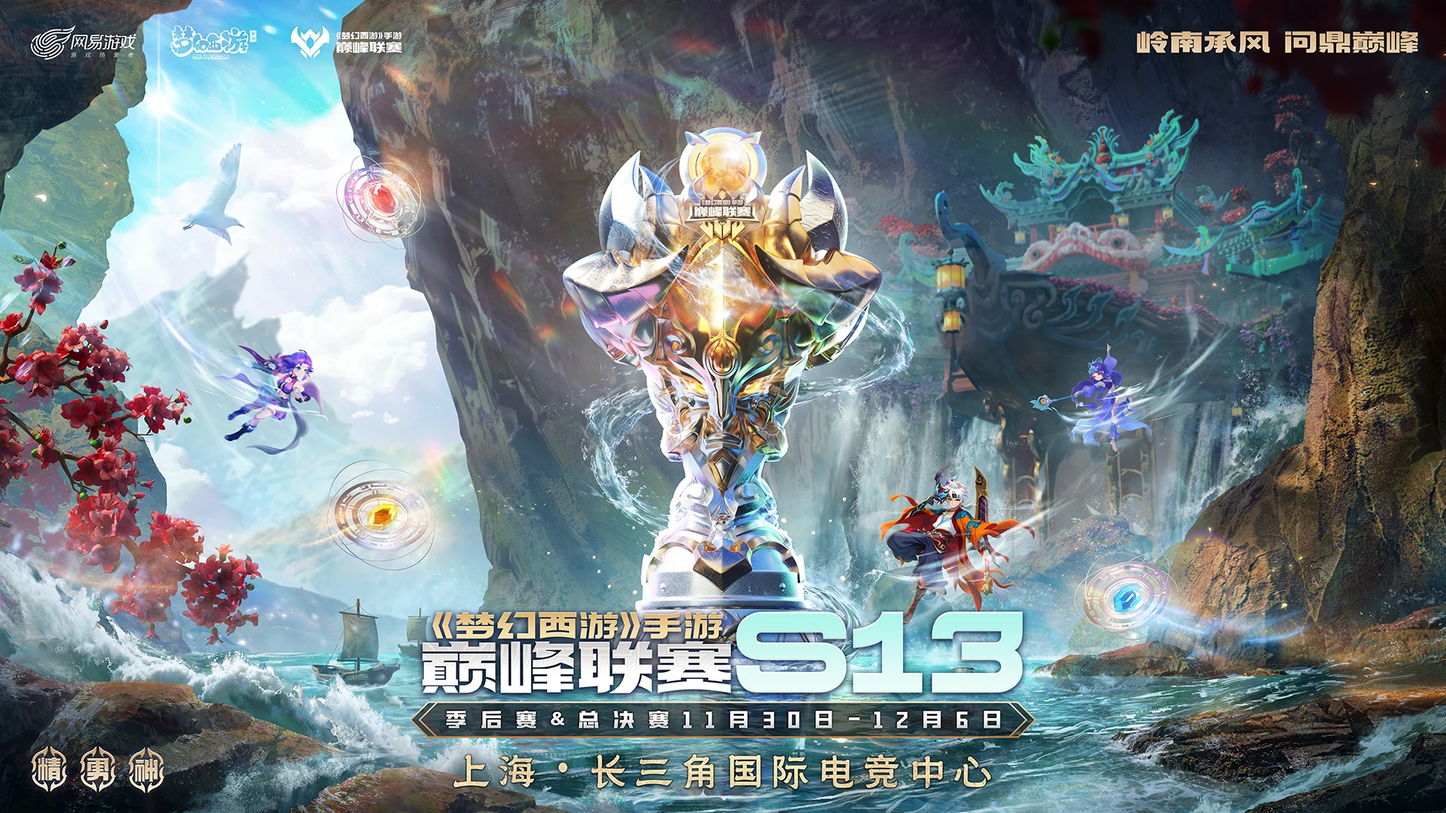
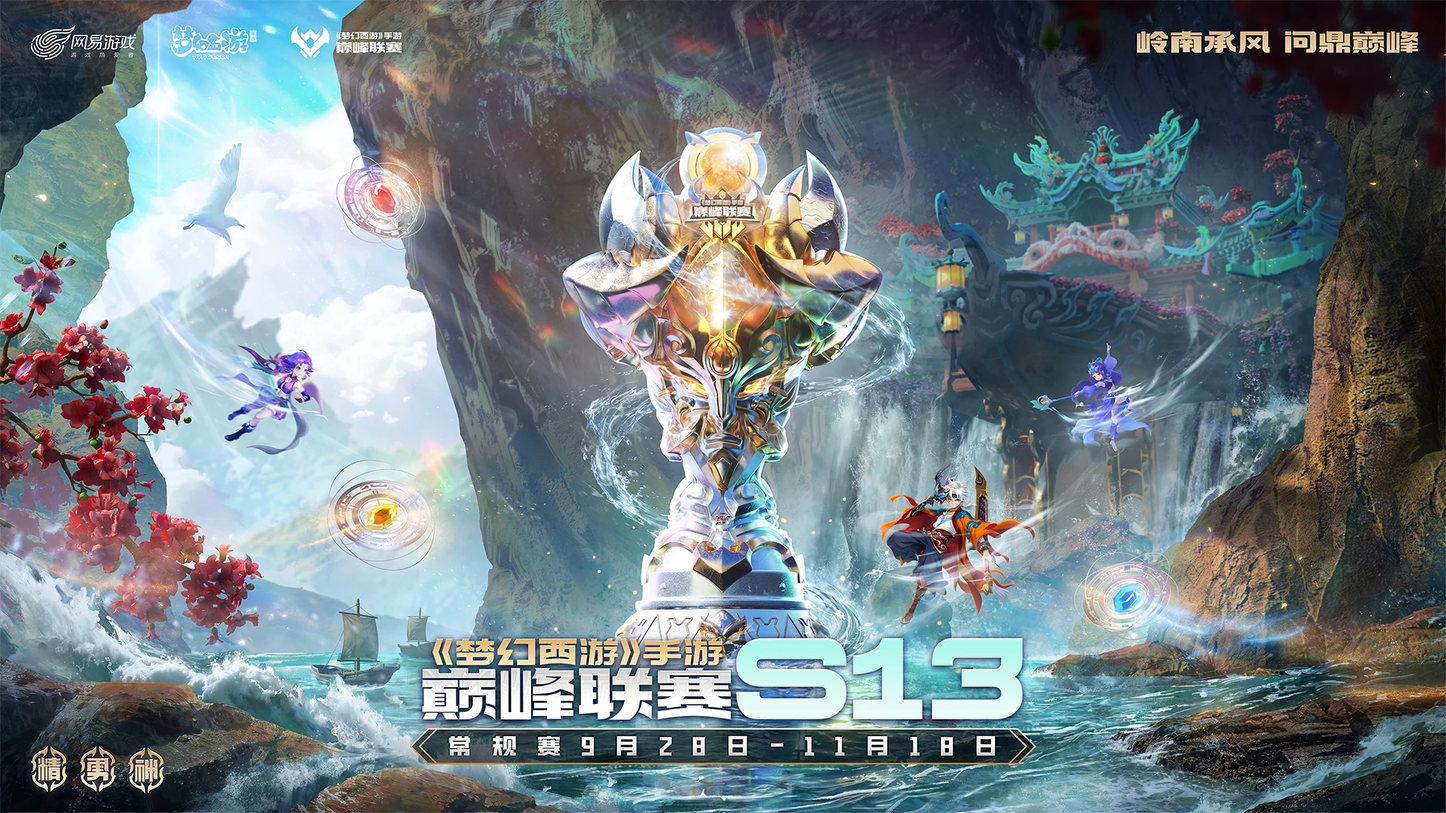
Update the S13 key visual source and its date range

Changed region(s): [[0.2812, 0.7333, 0.7188, 0.9778]]

diff --git a/work/mengshou.html b/work/mengshou.html
@@ -102,7 +102,7 @@
       <section class="case-section case-gallery">
         <h2><span class="case-section-index" aria-hidden="true">01</span>主视觉 KV</h2>
         <figure class="case-frame case-frame--image">
-          <img src="../assets/mengshou-s13-kv.webp" alt="《梦幻西游》手游 S13 巅峰联赛主视觉：金色奖杯、岭南山水与门派角色" width="1920" height="1080" decoding="async" fetchpriority="high">
+          <img src="../assets/mengshou-s13-kv.webp?v=20261112d" alt="《梦幻西游》手游 S13 巅峰联赛主视觉：金色奖杯、岭南山水与门派角色" width="1920" height="1080" decoding="async" fetchpriority="high">
         </figure>
         <figure class="case-frame case-frame--image">
           <img src="../assets/mengshou-gallery-cover-s10.webp" alt="《梦幻西游》手游巅峰联赛 S10 概念主视觉：金色羽翼奖杯徽记与深色峡谷背景" width="1920" height="1080" loading="lazy" decoding="async">
